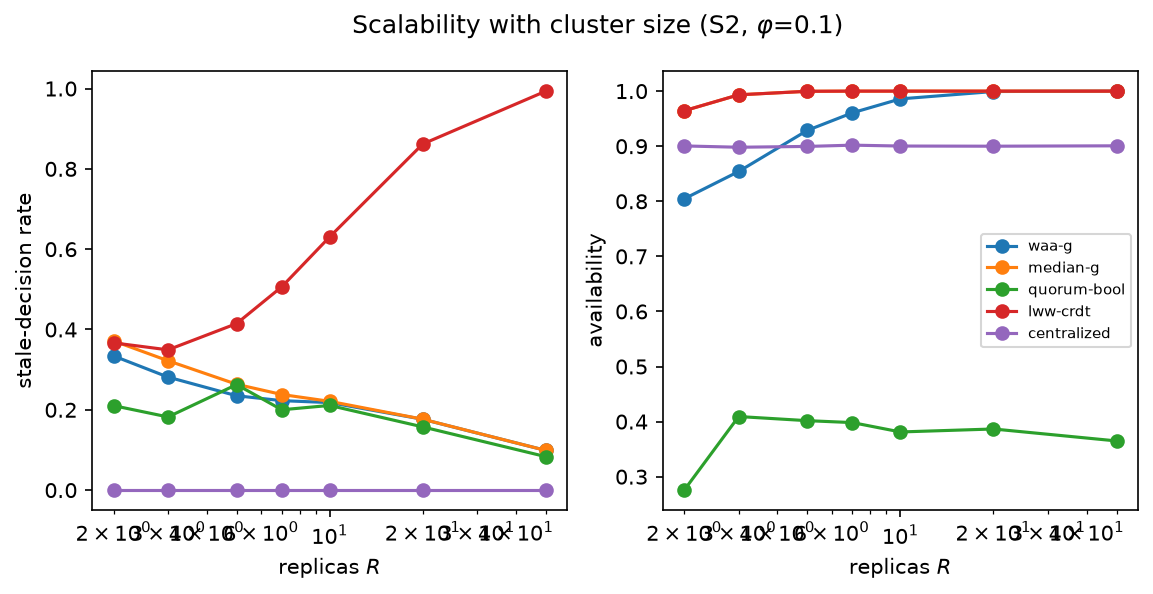
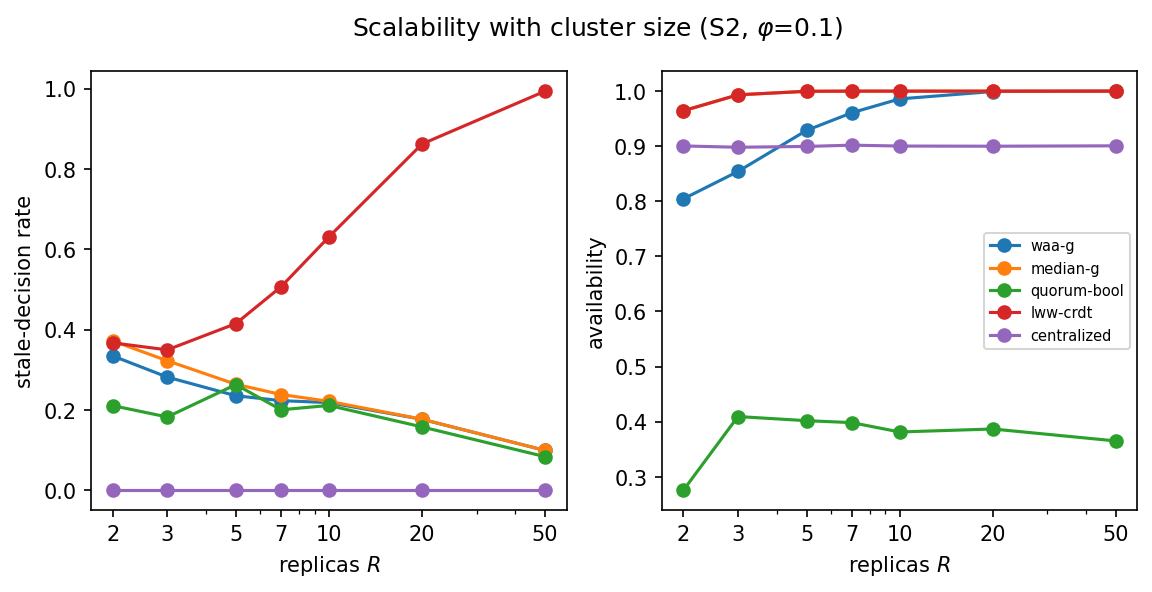
ns-dsl: fix scalability figure x-axis overlap + plain-English Data availability
- fig_scalability: replace matplotlib auto log-scale ticks (whose minor labels
  2x10^0, 3x10^0, ... collided) with explicit integer ticks at the sampled replica
  counts (2, 3, 5, 7, 10, 20, 50) via ScalarFormatter + NullFormatter on both panels.
  Regenerated from scalability.csv (figures-from-CSVs; no experiment re-run, no number
  change) — x-axis labels no longer overlap.
- Data availability: rephrased into plain English with no file names (.json/.csv
  removed) per author request — "per-configuration outcome summaries, pairwise
  statistical comparisons, and multi-seed replication checks". Substance unchanged
  (no third-party datasets; simulator-generated; Supplementary + on request; raw
  outputs on acceptance).

diff --git a/paper/manuscript.tex b/paper/manuscript.tex
@@ -840,14 +840,13 @@ over real sockets with a configurable per-hop RTT. A Docker Compose deployment o
 
 %====================================================================
 \section*{Data availability}
-This study uses no third-party datasets: all data are generated by the evaluation simulator under the
-content-hashed calibration (\texttt{calibration.json}) and the recorded random seeds described in the
-Methods. The aggregated result tables that underlie every figure and table
-(\texttt{per\_config\_summary.csv}, \texttt{pairwise\_tests.csv}, \texttt{multiseed\_validation.csv}, and
-the per-experiment tables) are provided as Supplementary Information and are available from the
-corresponding author on reasonable request; together with the figure and table generators they regenerate
-every reported number. The raw per-trial outputs will be released publicly under an open licence upon
-acceptance.
+This study uses no third-party datasets; all data are generated by the evaluation simulator under a fixed,
+content-hashed calibration and the recorded random seeds described in the Methods. The aggregated result
+summaries that underlie every figure and table---the per-configuration outcome summaries, the pairwise
+statistical comparisons, and the multi-seed replication checks---are provided as Supplementary Information
+and are available from the corresponding author on reasonable request; together with the figure and table
+generators they regenerate every reported number. The raw per-trial outputs will be released publicly
+under an open licence upon acceptance.
 
 \section*{Code availability}
 The implementation (neutrosophic operators, the ANTLR-based DSL and rules engine, the decision protocol,

diff --git a/experiments/make_figures.py b/experiments/make_figures.py
@@ -255,7 +255,13 @@ def fig_scalability() -> None:
         axes[1].plot(ss.replicas, ss.availability, marker="o", label=s.replace("neutro-", ""))
     axes[0].set_xlabel("replicas $R$"); axes[0].set_ylabel("stale-decision rate")
     axes[1].set_xlabel("replicas $R$"); axes[1].set_ylabel("availability")
-    axes[0].set_xscale("log"); axes[1].set_xscale("log")
+    from matplotlib.ticker import ScalarFormatter, NullFormatter
+    rvals = sorted(d.replicas.unique())
+    for ax in axes:
+        ax.set_xscale("log")
+        ax.set_xticks(rvals)
+        ax.xaxis.set_major_formatter(ScalarFormatter())
+        ax.xaxis.set_minor_formatter(NullFormatter())
     axes[1].legend(fontsize=7)
     fig.suptitle("Scalability with cluster size (S2, $\\varphi$=0.1)")
     _save(fig, "f13_scalability")